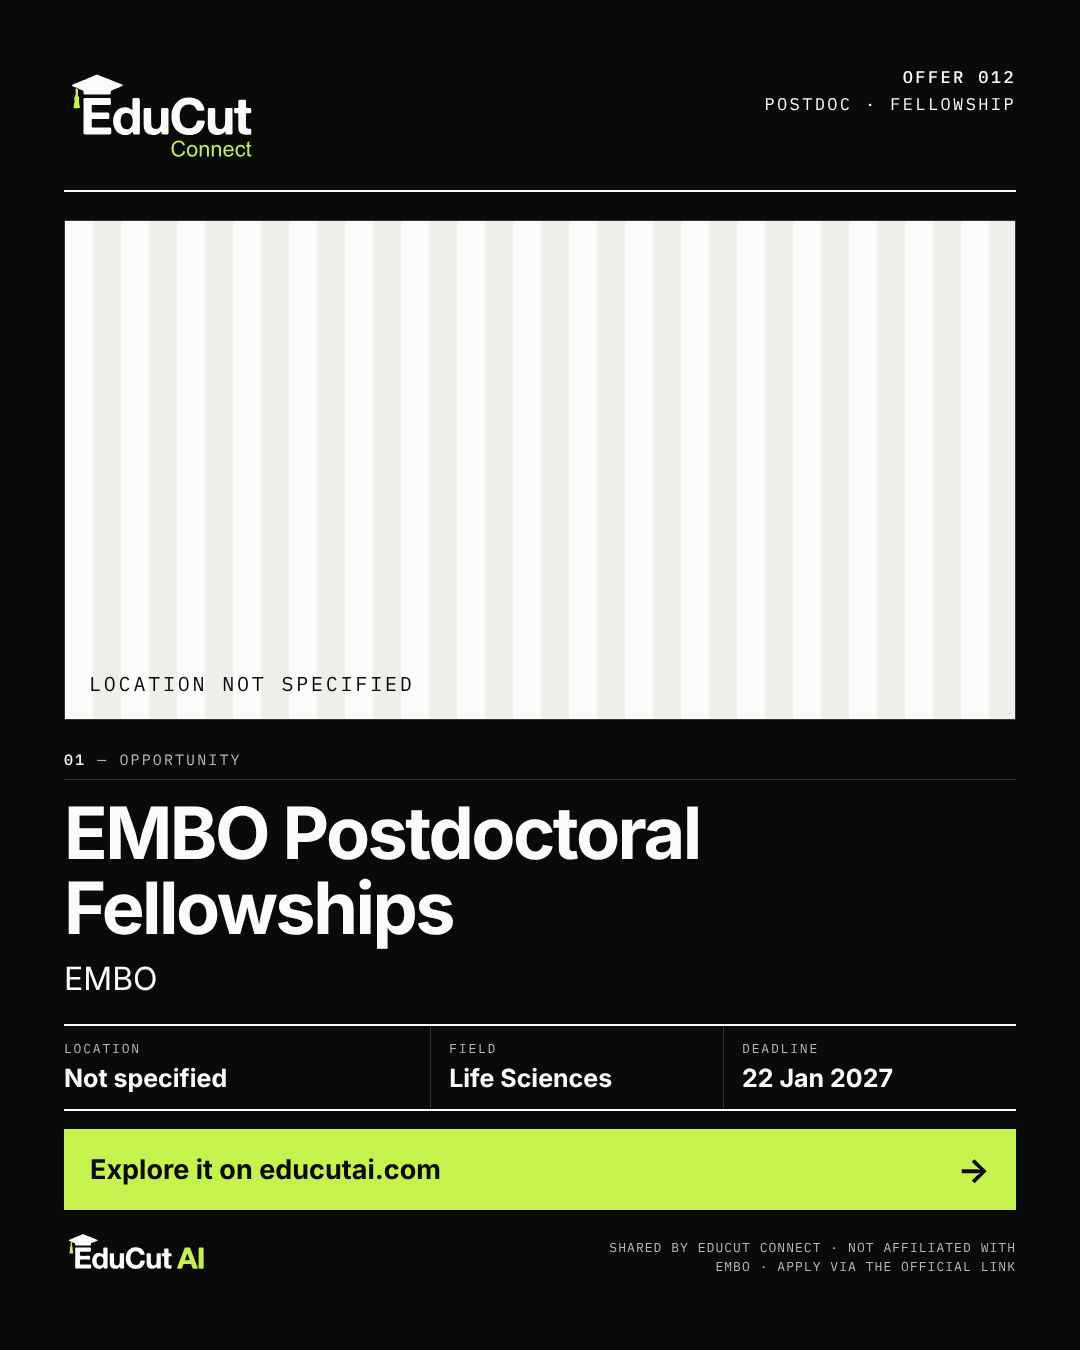
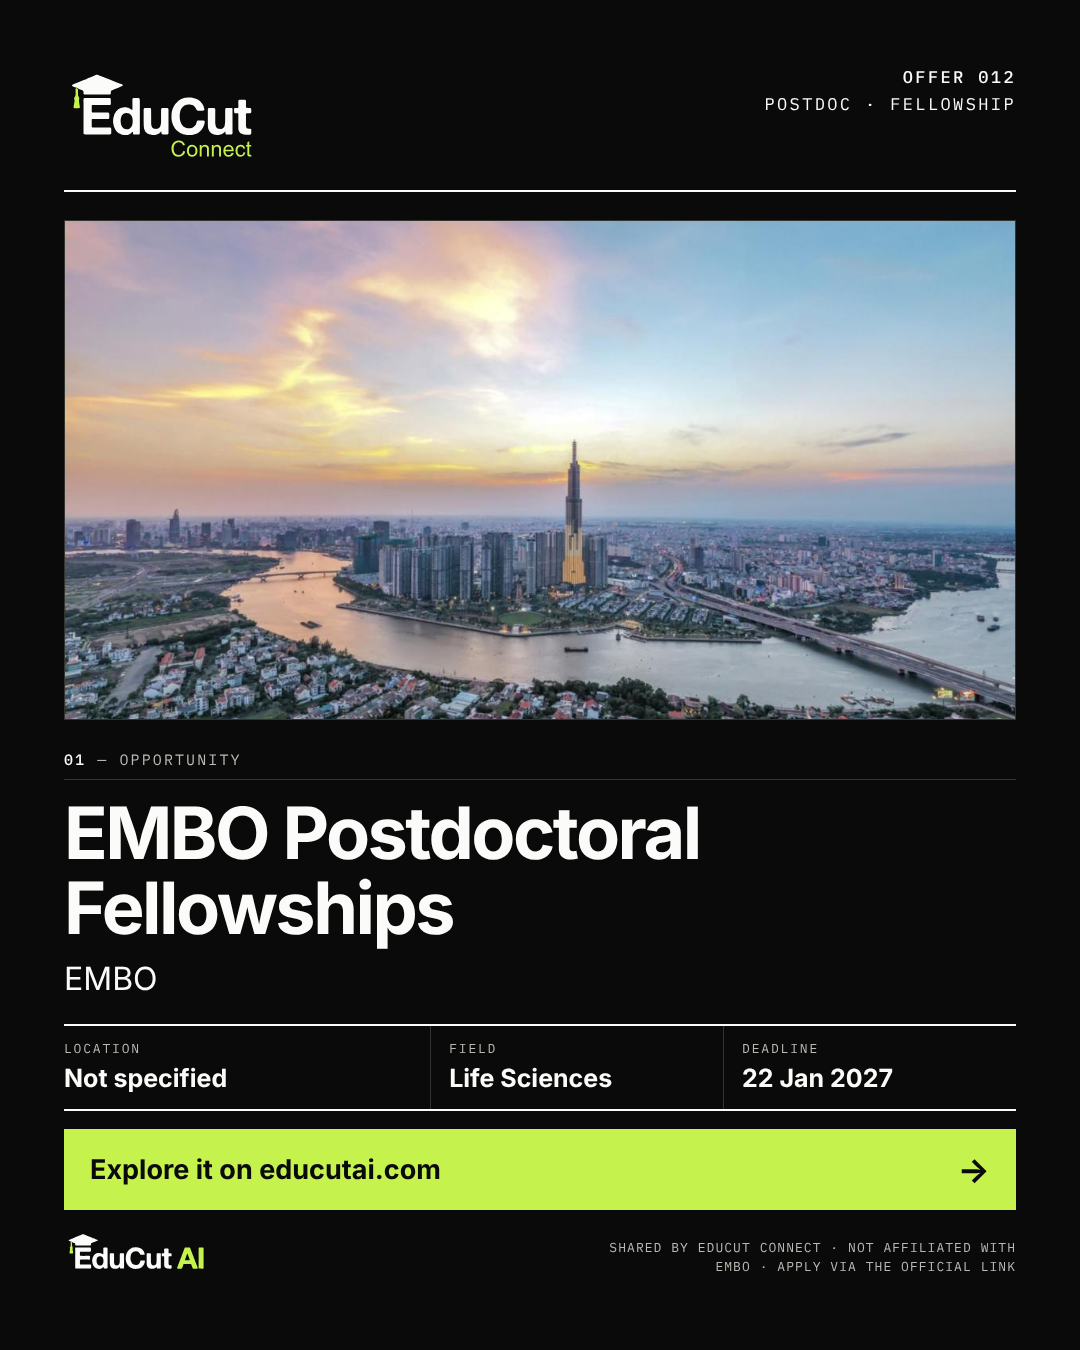
EduCut Connect: default photo when the place is not specified
- Renderer falls back to the administrator's default photo (Drive
  Landmarks/images/DEFAULT, registered as 'Default DEFAULT') when no city or
  country photo exists; agent and run instructions updated.
- Offers 010 and 012 (no location) re-rendered with it; their website cards
  now show the default photo.

Claude-Session: https://claude.ai/code/session_01Lnip56B3wmrg5dbZo7L6k4

diff --git a/educut-connect/index.html b/educut-connect/index.html
@@ -114,7 +114,7 @@
           </div>
         </a></li>
         <li data-deadline="2026-12-01" data-format="dhm" data-search="offer 010 joint master of arts in public policy (mundus mapp) central european university public policy master's applicants scholarship other unspecified"><a class="cx-card" href="/educut-connect/010-joint-master-of-arts-in-public-policy-mundus-mapp/">
-          <div class="cx-nophoto" aria-hidden="true"><span class="mono">EduCut Connect</span><strong>Public Policy</strong><span class="mono">Location not specified</span></div>
+          <img class="cx-photo" src="/educut-connect/010-joint-master-of-arts-in-public-policy-mundus-mapp/photo.jpg" alt="Photo: city skyline over a river at sunset (default photo)" width="1080" height="720" loading="lazy" />
           <div class="cx-body">
             <span class="mono cx-kicker">Offer 010 · Scholarship · Other</span>
             <h3>Joint Master of Arts in Public Policy (Mundus MAPP)</h3>
@@ -144,7 +144,7 @@
           </div>
         </a></li>
         <li data-deadline="2027-01-22T14:00:00+01:00" data-format="dhm" data-search="offer 012 embo postdoctoral fellowships embo life sciences postdoctoral postdoc fellowship unspecified"><a class="cx-card" href="/educut-connect/012-embo-postdoctoral-fellowships/">
-          <div class="cx-nophoto" aria-hidden="true"><span class="mono">EduCut Connect</span><strong>Life Sciences</strong><span class="mono">Location not specified</span></div>
+          <img class="cx-photo" src="/educut-connect/012-embo-postdoctoral-fellowships/photo.jpg" alt="Photo: city skyline over a river at sunset (default photo)" width="1080" height="720" loading="lazy" />
           <div class="cx-body">
             <span class="mono cx-kicker">Offer 012 · Postdoc · Fellowship</span>
             <h3>EMBO Postdoctoral Fellowships</h3>

diff --git a/educut-connect/010-joint-master-of-arts-in-public-policy-mundus-mapp/index.html b/educut-connect/010-joint-master-of-arts-in-public-policy-mundus-mapp/index.html
@@ -38,7 +38,7 @@
 
     <section class="page-section alt">
       <div class="wrap cx-offer">
-        <figure><img src="/educut-connect/010-joint-master-of-arts-in-public-policy-mundus-mapp/card.png" alt="EduCut Connect card for the Joint Master of Arts in Public Policy (Mundus MAPP) at Central European University, location not specified, deadline 1 Dec 2026, with a neutral band instead of a landmark photo." width="1080" height="1350" /></figure>
+        <figure><img src="/educut-connect/010-joint-master-of-arts-in-public-policy-mundus-mapp/card.png" alt="EduCut Connect card for the Joint Master of Arts in Public Policy (Mundus MAPP) at Central European University, location not specified, deadline 1 Dec 2026, with a neutral band instead of a landmark photo. Background photo: a city skyline over a river at sunset (default photo)." width="1080" height="1350" /></figure>
         <div data-deadline="2026-12-01" data-format="dhm" data-suffix=" to apply">
           <p class="cx-countdown"><strong data-countdown>Deadline 1 December 2026</strong><span>Deadline 1 December 2026</span></p>
           <h2>In short</h2>

diff --git a/educut-connect/012-embo-postdoctoral-fellowships/index.html b/educut-connect/012-embo-postdoctoral-fellowships/index.html
@@ -38,7 +38,7 @@
 
     <section class="page-section alt">
       <div class="wrap cx-offer">
-        <figure><img src="/educut-connect/012-embo-postdoctoral-fellowships/card.png" alt="EduCut Connect card: EMBO Postdoctoral Fellowships, EMBO, host location varies. Next cutoff 22 January 2027. No landmark photo; neutral band." width="1080" height="1350" /></figure>
+        <figure><img src="/educut-connect/012-embo-postdoctoral-fellowships/card.png" alt="EduCut Connect card: EMBO Postdoctoral Fellowships, EMBO, host location varies. Next cutoff 22 January 2027. No landmark photo; neutral band. Background photo: a city skyline over a river at sunset (default photo)." width="1080" height="1350" /></figure>
         <div data-deadline="2027-01-22T14:00:00+01:00" data-format="dhm" data-suffix=" to apply">
           <p class="cx-countdown"><strong data-countdown>Deadline 22 January 2027, 14:00 (CET)</strong><span>Deadline 22 January 2027, 14:00 (CET)</span></p>
           <h2>In short</h2>

diff --git a/.claude/commands/connect-run.md b/.claude/commands/connect-run.md
@@ -16,6 +16,7 @@ EduCut Connect/
   Communication/<YYYY-MM-DD>/Offer_NNN/   card.png, city.jpg, card-square.png, linkedin_post.txt, post_details.txt, web-brief.json, card.html, record.json, qc-report.json
   Landmarks/                      city photos supplied by the administrator (Geneva.jpg, Cambridge-GB.jpg, …)
   Landmarks/images/<CC>/          one landscape photo per country (images/US/…, images/SA/…), used when no city photo exists
+  Landmarks/images/DEFAULT/       default photo, used when the place is not specified or has no photo
   Registry/registry.json          every opportunity ever seen (dedup + status history)
 ```
 
@@ -50,7 +51,11 @@ City photos: for each offer's city, look in Drive `EduCut Connect/Landmarks/` fo
 `<City>.jpg|png` or `<City>-<CC>.jpg|png` (e.g. `Geneva.jpg`, `Cambridge-GB.jpg`); when the offer has no
 city, look for `<Country>.jpg|png` (e.g. `Germany.jpg`) and register it with the country name as the city.
 When neither exists, use the country photo in `Landmarks/images/<CC>/` (download it, look at it, and
-pass what it shows as `--landmark`). If found, download it with the
+pass what it shows as `--landmark`).
+When the place is not specified (no city and no country) or there is no photo for the country, the card
+uses the default photo: download `Landmarks/images/DEFAULT/default.jpg` once per run and register it with
+`node connect/cli.mjs landmark-add Default DEFAULT <file> --landmark "<what it shows>"`; the renderer falls
+back to it automatically. If found, download it with the
 connector into `$RUN_DIR/landmarks/` and register it:
 `node connect/cli.mjs landmark-add "<City>" <CC> <file> --landmark "<what it shows>" --credit "<credit if given>" --run $RUN_DIR`.
 The designer's `landmark` step then uses it (otherwise it tries Wikimedia Commons). The renderer copies the

diff --git a/.claude/agents/website-developer.md b/.claude/agents/website-developer.md
@@ -55,8 +55,8 @@ Commands: `node connect/cli.mjs <cmd> …`.
      decode its `content` with `jq -r .content <file> | base64 -d`) into the run folder.
    Open the image (Read) to see what it shows, then pass `--photo <file> --photo-alt "<what it shows,
    e.g. New York skyline with the Statue of Liberty, United States>"`. `site-add` crops it to 3:2 and
-   saves it as `educut-connect/<slug>/photo.jpg`. Only use photos from that Drive folder. If there is
-   none for the country, add the offer without a photo and say so in `notes`.
+   saves it as `educut-connect/<slug>/photo.jpg`. Only use photos from that Drive folder. When the place
+   is not specified or the country has no folder, use `Landmarks/images/DEFAULT/` (the default photo).
 4. `site-add $OFFER_DIR --approved-by "<name>"` (or `--preview`), plus the photo flags. It checks the entry (length, key points,
    no URLs, no invented pay or deadline, no banned phrases) and copies the card images to
    `educut-connect/<slug>/`. Fix every failure it reports and run it again.

diff --git a/.claude/agents/visual-designer.md b/.claude/agents/visual-designer.md
@@ -25,7 +25,9 @@ Commands: `node connect/cli.mjs <cmd> … --run $RUN_DIR`.
    - Open the downloaded image (Read the file) and confirm it shows that landmark. If it does not, run again
      with a more precise `--query`, or `--refresh`.
    - If no city is given, try the country's capital landmark only when the record says the role is in that
-     country; otherwise accept the neutral band. Never use an image without licence data.
+     country. When the place is not specified at all, the renderer uses the administrator's default photo
+     (registered as `Default DEFAULT` from Drive `Landmarks/images/DEFAULT/`). Never use an image without
+     licence data.
 3. **Write `OFFER_DIR/design-input.json`:**
    ```json
    {
